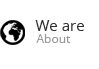
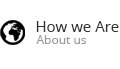
Adaptación ingles

Changed region(s): [[0.303, 0.2899, 1.0, 0.4638], [0.0, 0.2899, 0.2727, 0.6667], [0.303, 0.4928, 0.7273, 0.6377]]

diff --git a/index.html b/index.html
@@ -138,12 +138,13 @@
             <span class="icon-bar"></span>
             <span class="icon-bar"></span>
           </a>
-          <a class="brand" href="#page-top">Brium | Digital Branding</a>
+          <a class="brand" href="#page-top">Brium | Branding Digital</a>
           <div class="nav-collapse collapse">
+          	
             <ul class="nav">
               <li class="active">
-              <a href="#servicios">Services</a></li>
-              <li><a href="#somos">Somos</a></li>
+              <a href="#servicios">Service</a></li>
+              <li><a href="#somos">How we are</a></li>
               <li><a href="#contacto">Contact</a></li>
             </ul>
           </div><!--/.nav-collapse -->
@@ -158,7 +159,7 @@
         </div>
     <div class="menusup hidden-phone">
           <div class="botonesmenu_contacto"> <a href="#contacto"><img src="img/menu_contacto.jpg" width="100px" height="69px" alt="" class="a"/></a> <a href="#contacto"><img src="img/menu_contacto_color.jpg" width="100px" height="69px" alt="" class="b"/></a> </div>
-          <div class="botonesmenu_somos"> <a href="#somos"><img src="img/menu_somos.jpg"  width="99px" height="69px" alt="" class="a"/></a> <a href="#somos"><img src="img/menu_somos_color.jpg"  width="99px" height="69px" alt="" class="b"/></a> </div>
+          <div class="botonesmenu_somos"> <a href="#somos"><img src="img/menu_somos.jpg"  width="120px" height="69px" alt="" class="a"/></a> <a href="#somos"><img src="img/menu_somos_color.jpg"  width="120px" height="69px" alt="" class="b"/></a> </div>
           <div class="botonesmenu_servicios"> <a href="#servicios"><img src="img/menu_servicios.jpg" width="125px" height="69px" alt="" class="a"/></a> <a href="#servicios"><img src="img/menu_servicios_color.jpg" width="125px" height="69px" alt="" class="b"/></a> </div>
         </div>
   </div>

diff --git a/css/style.css b/css/style.css
@@ -116,14 +116,14 @@ img {
 	position: relative;
 	float: right;
 }
-.imgaes_socios{
+.imgages_socios{
 	width: 132px;
 	height: 132px;
 	position: relative;
 	float: right;
 }
 .botonesmenu_somos{
-	width: 99px;
+	width: 120px;
 	height: 69px;
 	margin: 0 15px;
 	position: relative;

diff --git a/contacto.php b/contacto.php
@@ -1,0 +1,50 @@
+<?php
+
+include "phpmailer/classphpmailer_helper.php";
+
+$nombre 	= $_POST['nombre'];
+$email 		= $_POST['email'];
+$mensaje	= $_POST['mensaje'];
+
+$mail = new PHPMailer;
+
+$mail->IsSMTP();                                      // Set mailer to use SMTP
+$mail->Mailer = "smtp";
+ 
+//Nuestro servidor smtp. Como ves usamos cifrado ssl
+$mail->Host = "ssl://smtp.gmail.com";
+ 
+//Puerto de gmail 465
+$mail->Port="465";
+ 
+$mail->SMTPAuth 	= true;                               // Enable SMTP authentication
+$mail->Username 	= 'contacto@brium.cl';                            // SMTP username
+$mail->Password 	= 'SocialBrium2012';                     // SMTP password
+//$mail->SMTPSecure 	= 'tls';                            // Enable encryption, 'ssl' also accepted
+
+$mail->From 		= "no-reply@brium.cl";
+$mail->FromName 	= 'Brium | Branding Digital';
+$mail->AddAddress('contacto@brium.cl', 'Contacto Brium');  // Add a recipient
+$mail->AddCC($email);
+
+
+$mail->IsHTML(true);                                  // Set email format to HTML
+
+$plantilla	= file_get_contents("mail/mail_brium.html");
+
+$body 		= str_replace("{nombre}", $nombre, $plantilla);
+$body 		= str_replace("{email}", $email, $body);
+$body 		= str_replace("{mensaje}", $mensaje, $body);
+
+$mail->Subject = 'Contacto Brium';
+$mail->Body    = utf8_decode($body);
+
+
+if(!$mail->Send()) {
+   echo '<div class="alert alert-error"><i class="icon-exclamation-sign"></i> Ha ocurrido un problema en el envio, por favor intente mas tarde.</div>';
+   die();
+}
+
+echo '<div class="alert alert-success"><i class="icon-ok"></i> Tu correo ha sido enviado exitosamente.</div>';
+
+?>
